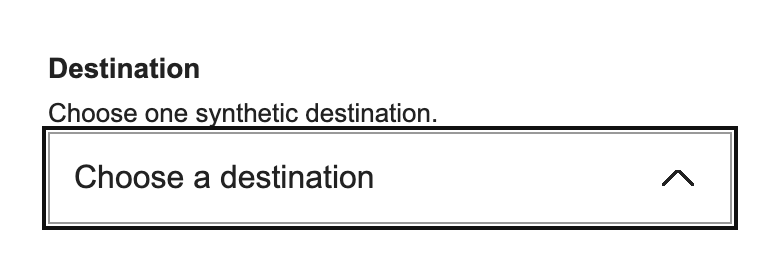
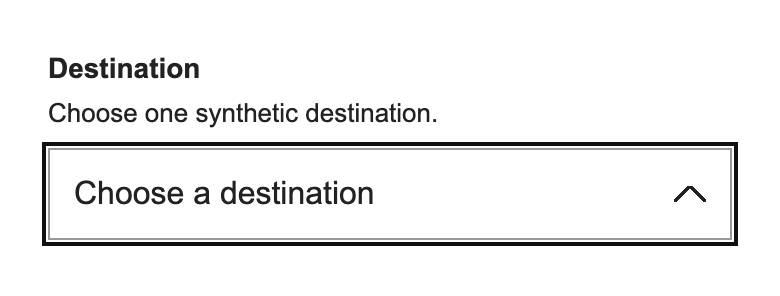
fix(ds): balance Select chevron and help feedback spacing

diff --git a/packages/ds/src/components/select/select.stories.ts b/packages/ds/src/components/select/select.stories.ts
@@ -72,6 +72,11 @@ export const RequiredInvalid: Story = {
       await expect(feedback).toContain('Please select an option.');
       await expect(feedback).not.toContain('Please configure an error message');
     });
+    const box = field.shadowRoot!.querySelector('.input-group__container')!.getBoundingClientRect();
+    const feedbackBox = field
+      .shadowRoot!.querySelector('.form-field__feedback')!
+      .getBoundingClientRect();
+    await expect(feedbackBox.top - box.bottom).toBe(8);
   },
 };
 
@@ -98,6 +103,16 @@ export const HelpAndExternalError: Story = {
       </select>
     </wk-select>
   `,
+  play: async ({ canvasElement }) => {
+    const field = canvasElement.querySelector('wk-select')!;
+    const root = field.shadowRoot!;
+    const help = root.querySelector('.form-field__help-text')!.getBoundingClientRect();
+    const box = root.querySelector('.input-group__container')!.getBoundingClientRect();
+    const feedback = field.querySelector('[data-wk-external-error]')!.getBoundingClientRect();
+    const above = box.top - help.bottom;
+    await expect(above).toBeGreaterThanOrEqual(8);
+    await expect(Math.abs(feedback.top - box.bottom - above)).toBeLessThanOrEqual(1);
+  },
 };
 
 export const LongContent: Story = {

diff --git a/packages/ds/src/components/select/wk-select.styles.ts b/packages/ds/src/components/select/wk-select.styles.ts
@@ -24,6 +24,13 @@ export const wkSelectStyles = css`
     line-height: 18px;
     overflow-wrap: anywhere;
   }
+  :host([help-text]:not([help-text=''])) .form-field__help-text {
+    margin-block-end: 8px;
+  }
+  :host([shows-feedback-for~='error']) .form-field__feedback,
+  ::slotted([data-wk-external-error]) {
+    margin-block-start: 8px;
+  }
   .input-group__container {
     min-width: 0;
     min-height: 44px;
@@ -50,8 +57,8 @@ export const wkSelectStyles = css`
       linear-gradient(-45deg, transparent 42%, currentColor 42% 58%, transparent 58%);
     background-size: 8px 8px;
     background-position:
-      right 26px center,
-      right 18px center;
+      right 20px center,
+      right 12px center;
     background-repeat: no-repeat;
     color: var(--wk-text, #222);
     font: inherit;
